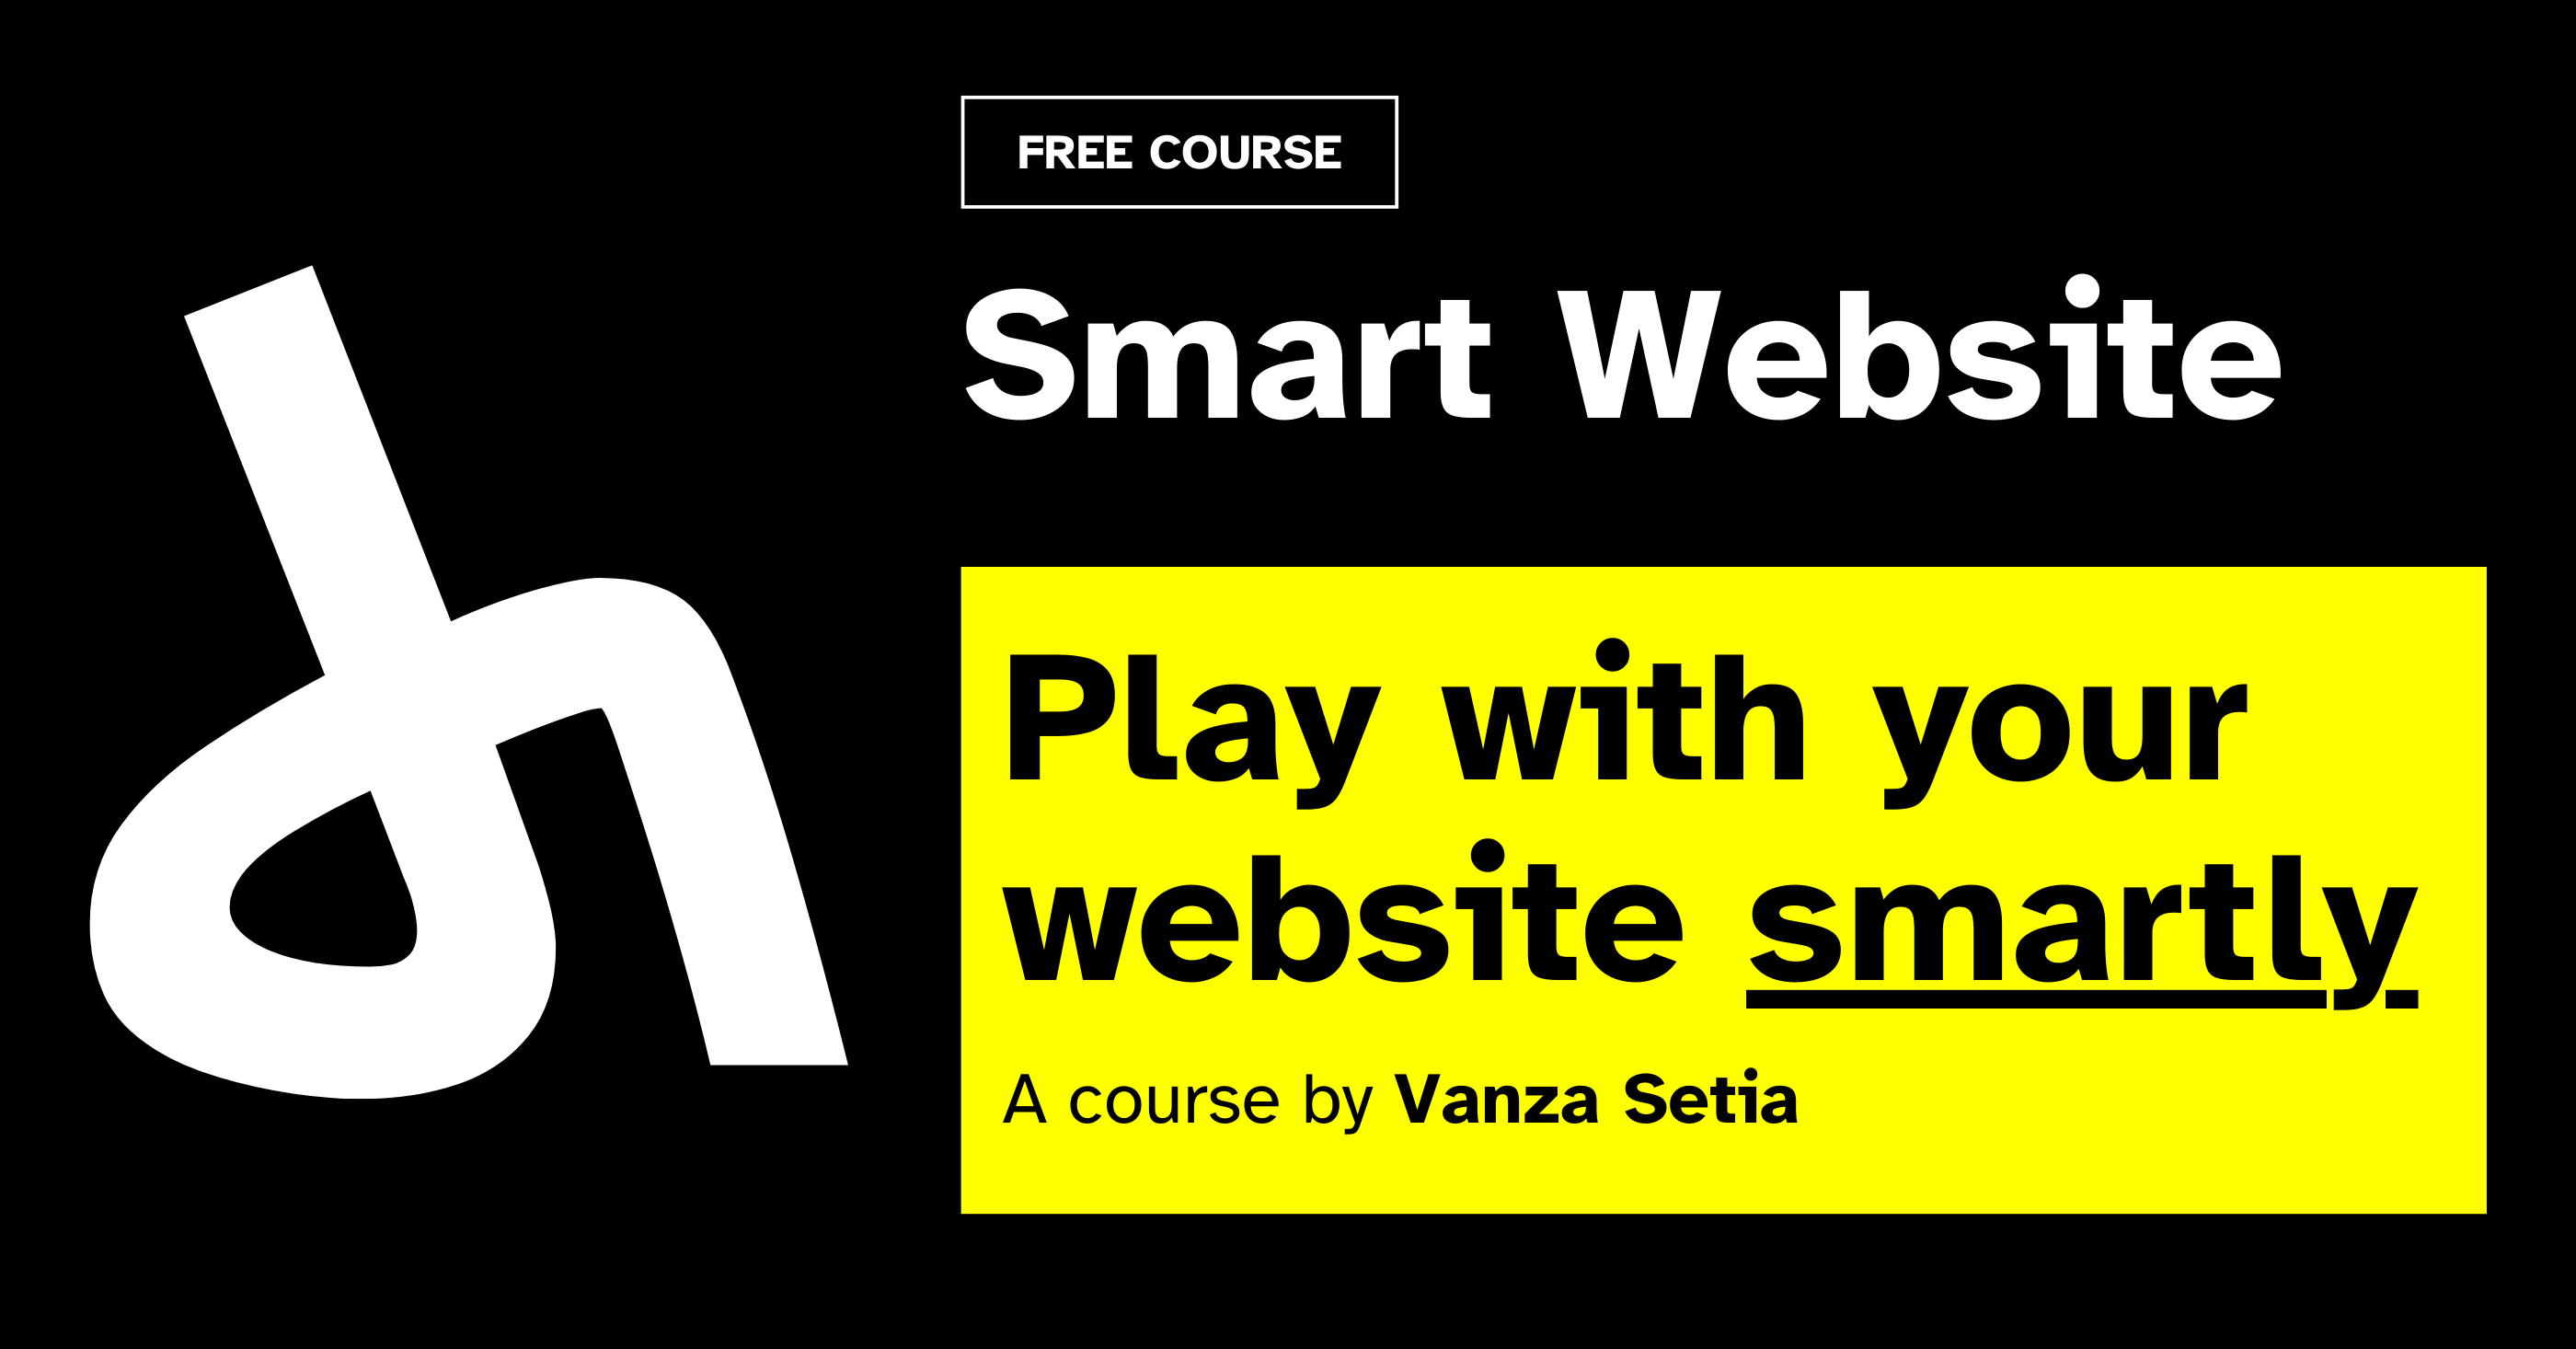
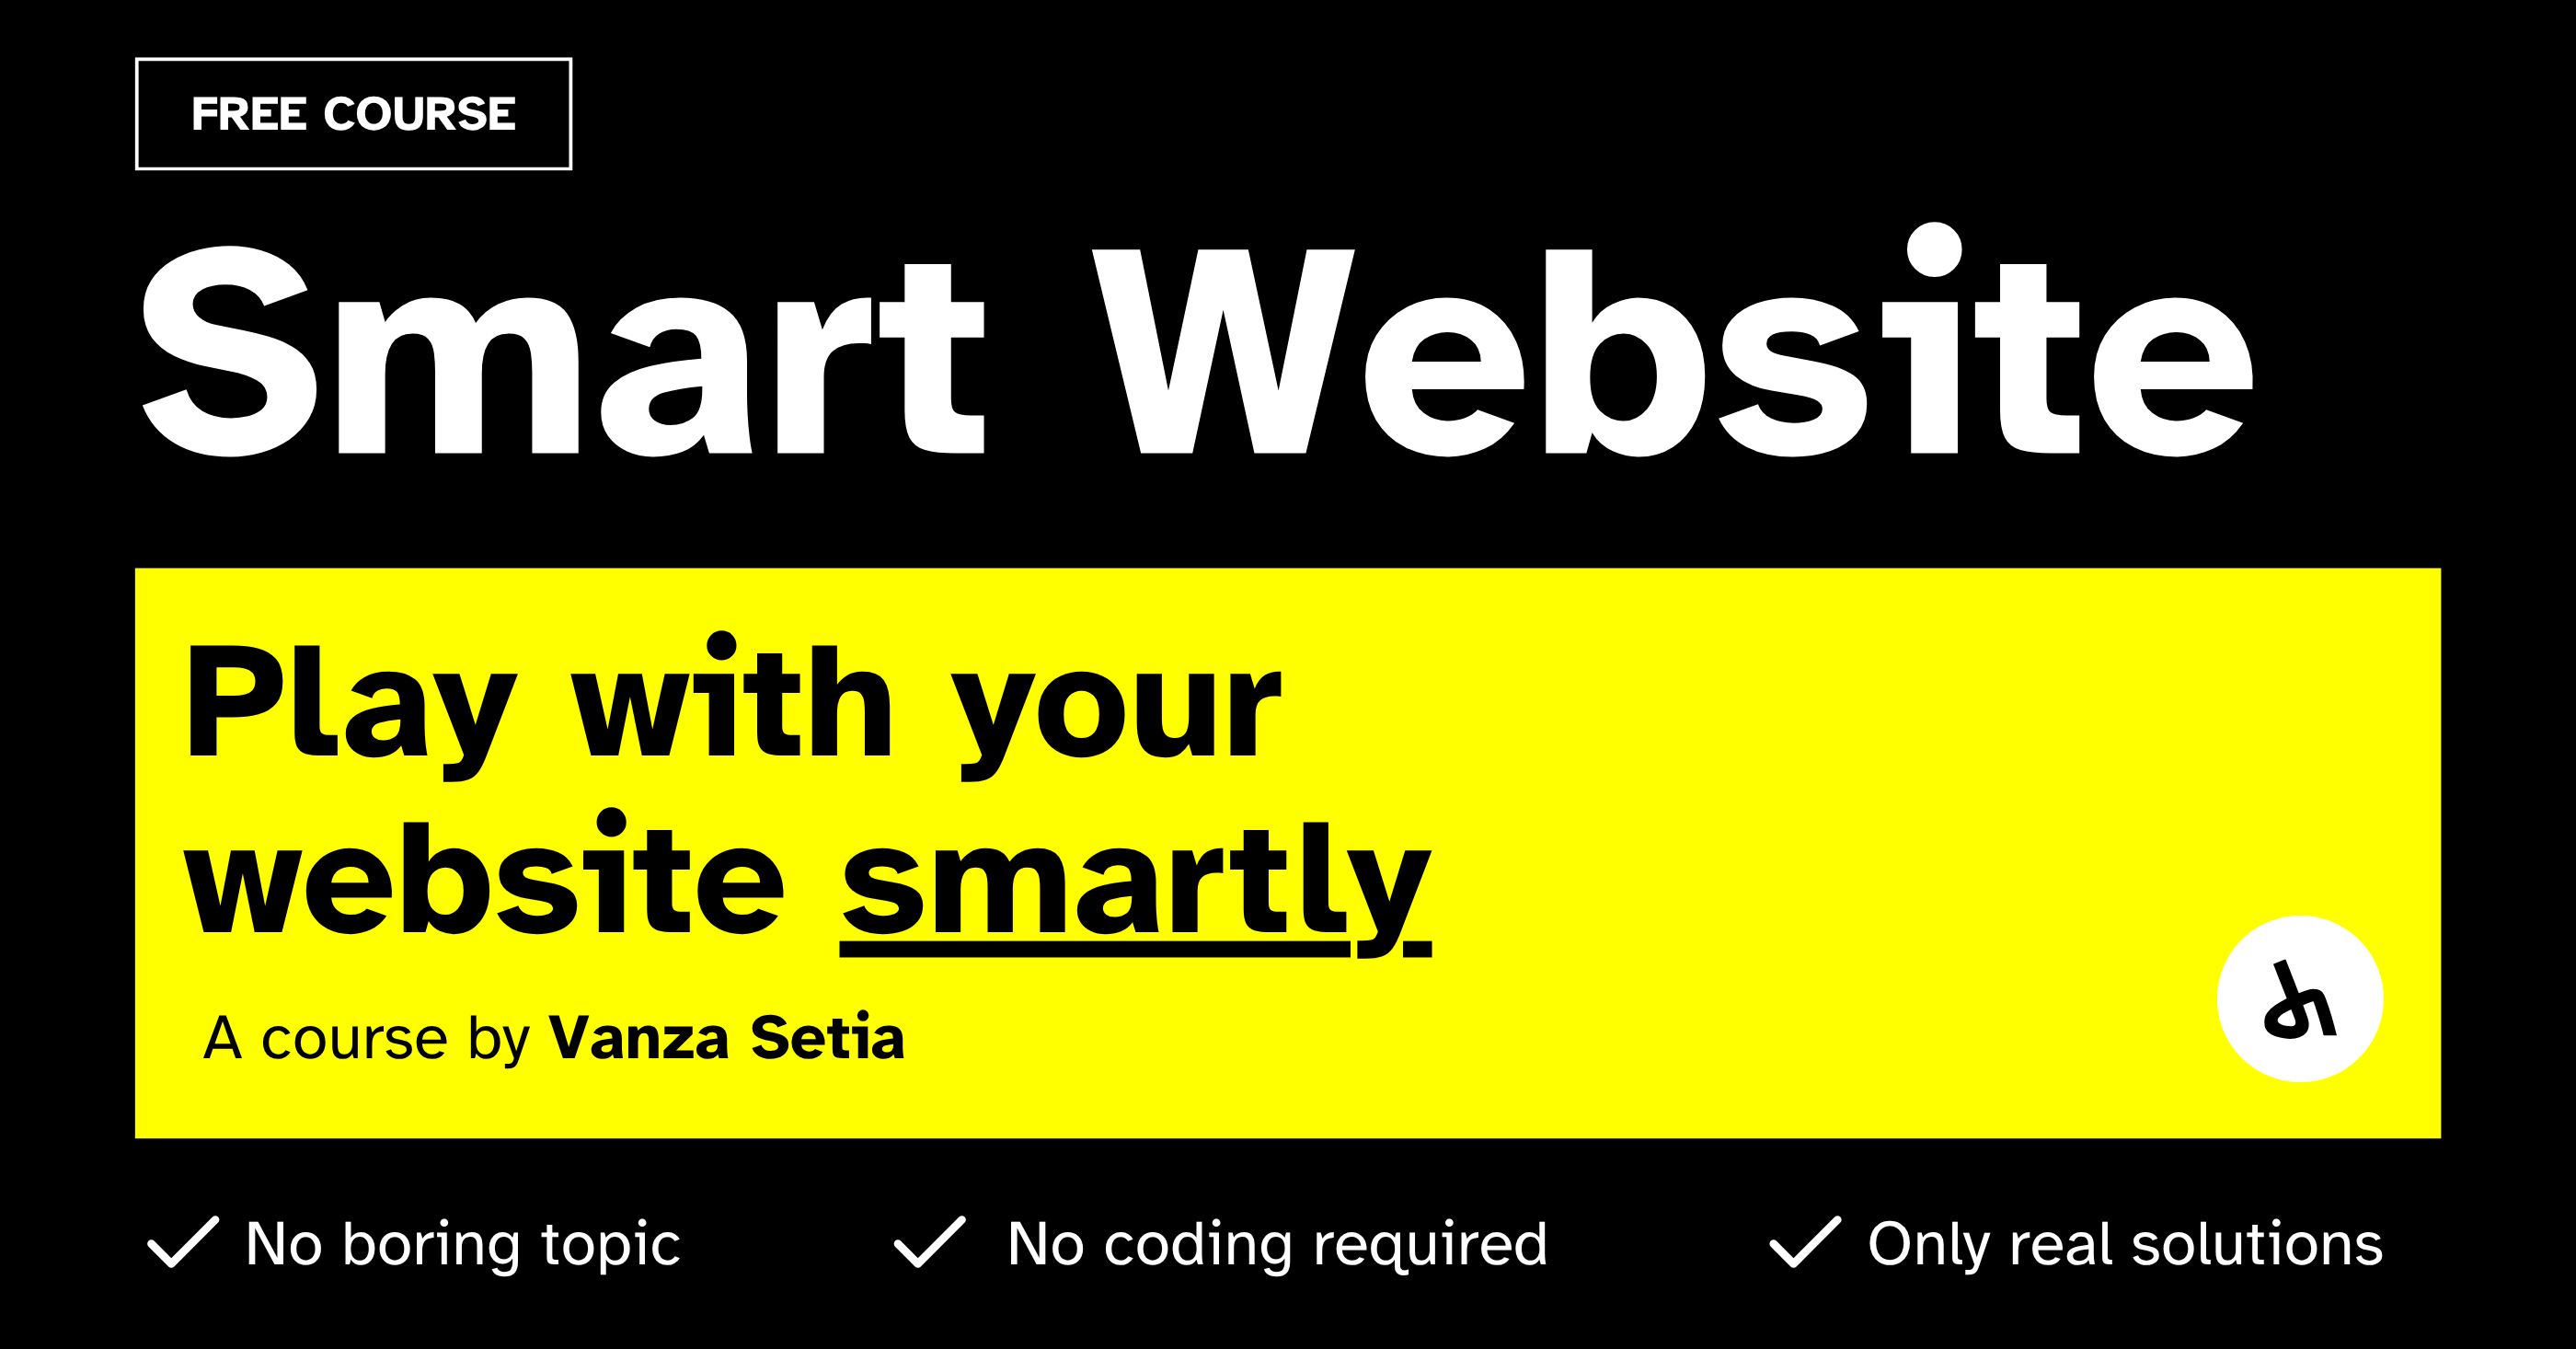
Make social promo theme consistent

diff --git a/src/vl3/vl3.11tydata.js b/src/vl3/vl3.11tydata.js
@@ -1,3 +1,5 @@
 export default {
-  layout: "layouts/vl3.njk"
+  layout: "layouts/vl3.njk",
+  socialPromo: "/images/vl3.png",
+  alt: "Vitamin L3. A healthy dose of links for your mind. Vitamin Link Three. Vitamin L3 exists to boost your mood. One capsule, three links."
 };

diff --git a/src/smart-website/smart-website.11tydata.js b/src/smart-website/smart-website.11tydata.js
@@ -7,5 +7,5 @@ export default {
     year: 2026
   },
   socialPromo: "/images/smart-website.png",
-  alt: "Free course. Smart Website. Play with your website smartly. A course by Vanza Setia."
+  alt: "Free course. Smart Website. Play with your website smartly. A course by Vanza Setia. No boring topic. No coding required. Only real solutions."
 };